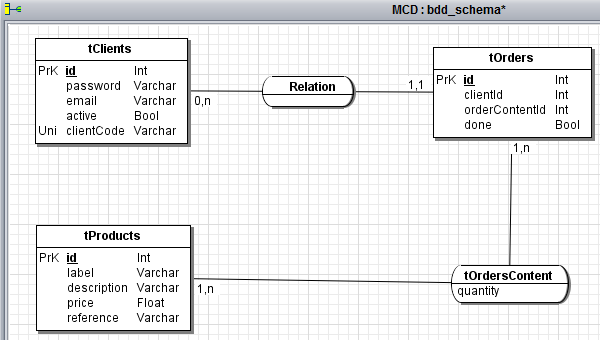
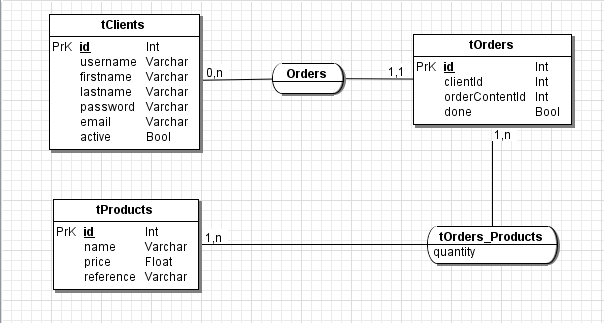
bdd

diff --git a/factory/ProductsFactory.php b/factory/ProductsFactory.php
@@ -7,7 +7,7 @@ class ProductsFactory extends Model {
    function GetProductById($id){
 	$req = 'SELECT * FROM tproducts WHERE id=?';
 	$result = $this->executerRequete($req, array($id))->fetch();
-	return new Product($result['id'],$result['label'],$result['name'],$result['price'],$result['reference']);
+	return new Product($result['id'],$result['name'],$result['price'],$result['reference']);
    }
 
    function GetProducts(){
@@ -15,7 +15,7 @@ class ProductsFactory extends Model {
 	$req = 'SELECT * FROM tproducts';
 	$result = $this->executerRequete($req)->fetchAll();
 	foreach ($result as $row){
-		$itm = new Product($row['id'],$row['label'],$row['name'],$row['price'],$row['reference']);
+		$itm = new Product($row['id'],$row['name'],$row['price'],$row['reference']);
 		array_push($stack, $itm);
 	}
 	return $stack;

diff --git a/view/productView.php b/view/productView.php
@@ -35,7 +35,7 @@
         <div class="modal-body">
           <div class="card" style="height: 230px">
                 <div class="card-image">
-                    <center> <img class="imageClip" src="thumbnail/<?= $product->Label ?>.jpg"> </center>           
+                    <center> <img class="imageClip" src="thumbnail/<?= $product->Reference ?>.jpg"> </center>           
                 </div>       
                 <div class="card-content" style="height: 60px">
                     <p style="font-size: 16px"><?= $product->Desc ?></p>

diff --git a/model/product.php b/model/product.php
@@ -5,9 +5,8 @@ class Product{
 	public $Name;
 	public $Price;
 	public $Reference;
-    public function __construct($_id, $_label, $_name, $_price, $_reference) {
+    public function __construct($_id, $_name, $_price, $_reference) {
 		$this->Id = $_id;
-		$this->Label = $_label;
 		$this->Name = $_name;
 		$this->Price = $_price;
 		$this->Reference = $_reference;
